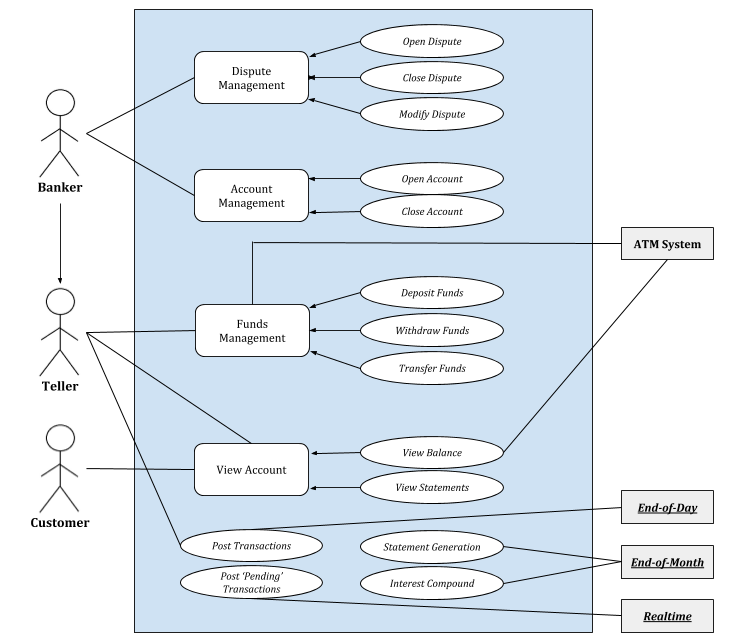
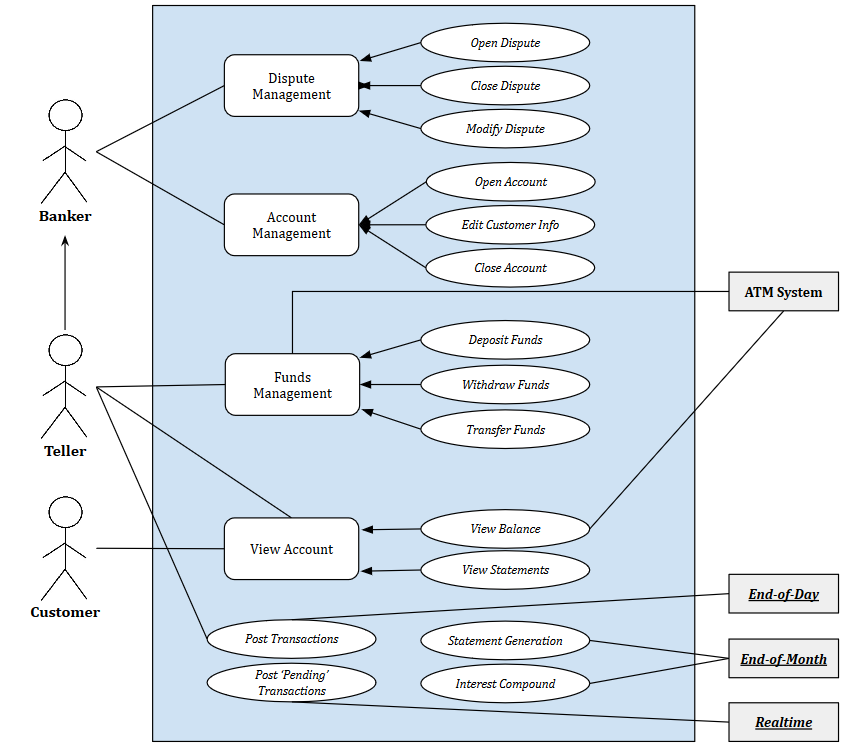
Update README and Usecase Diagram
+ Updated README with command structure
+ Updated use case diagram
+ Minor update to SubModify to show 'help' subcommand

diff --git a/App/src/cmd/acct/SubModify.java b/App/src/cmd/acct/SubModify.java
@@ -52,6 +52,7 @@ public class SubModify extends Command {
         String cmd = prompt("ACCT > MOD");
 
         switch(cmd.toLowerCase()) {
+          case "help": subHelp(); break;
           case "card": subCard(); break;
           case "owner": subOwn(); break;
           case "close": if (subClose()) { return; } break;

diff --git a/App/README.md b/App/README.md
@@ -20,7 +20,9 @@ Source Files:
 
 <i>src/dbase:</i> CID.java, Conn.java, Relations.java
 
-<i>src/cmd:</i> Command.java, CmdHelp.java, CmdCustomer.java, CndReset.java, CmdAccount.java
+<i>src/cmd:</i> Command.java, CmdHelp.java, CmdCustomer.java, CmdReset.java, CmdAccount.java
+
+<i>src/cmd/acct:</i> SubModify.java
 
 Data Files: input.txt
 ### Compilation, Testing, and Known Issues
@@ -41,3 +43,44 @@ Issues:
 Notes:
 - To appropriately compile the program, have the postgresql JAR file in the same directory as the source files on compilation. Furthermore, it is assumed you have an 'out' directory to compile to
 - Lines in an input file, given using  `in <file>`, that start with a '#' are ignored during preload
+
+### Functions
+The following is a hierarchy of functions that were generated for the project - that is, these functions are implemented in the source as executable:
+<ul>
+<li><b>ret</b>, <b>exit</b>, <b>back</b>: <i>Reserved commands that will exit/return from commands</i>
+<li><b>help</b>: Show a list of commands
+<li><b>reset</b>: Reset the database's state using a create and data SQL files (usually from the generator)
+<li><i>Customer Management</i>
+  <ul>
+  <li><b>get</b>: Retrieve information about a group of customers
+  <li><b>mod</b>: Modify a customer's information
+  <li><b>new</b>: Add a new customer to the database
+  </ul>
+<li><i>Account Management</i>
+  <ul>
+  <li><b>new</b>: Add a new account for a customer
+  <li><b>seek</b>: Seek accounts owned by a customer
+  <li><b>get</b>: Get information about an account
+  <li><b>help</b>: Show this list of commands
+  <li><b>mod</b>: Execute commands that modify the account
+    <ul>
+    <li><b>help</b>: Show this list of commands
+    <li><b>card</b>: Manipulate cards on the account
+      <ul>
+      <li><b>list</b>: List cards on the account (pending/active/disabled only)
+      <li><b>new</b>: Add a new card to an account
+      <li><b>tog</b>: Toggle a card between enabled/disabled
+      <li><b>close</b>: Close a card (even if pending)
+      </ul>
+    <li><b>owner</b>: Manipulate owners for an account
+      <ul>
+      <li><b>list</b>: Show a list of owners on the account
+      <li><b>new</b>: Add an owner to the account
+      <li><b>rem</b>: Remove an owner from the account
+      </ul>
+    <li><b>credit</b>: Execute a credit transaction (counter deposits, etc)
+    <li><b>debit</b>: Execute a debit transaction (counter withdrawal)
+    <li><b>close</b>: Close the account
+    </ul>
+  </ul>
+</ul>
